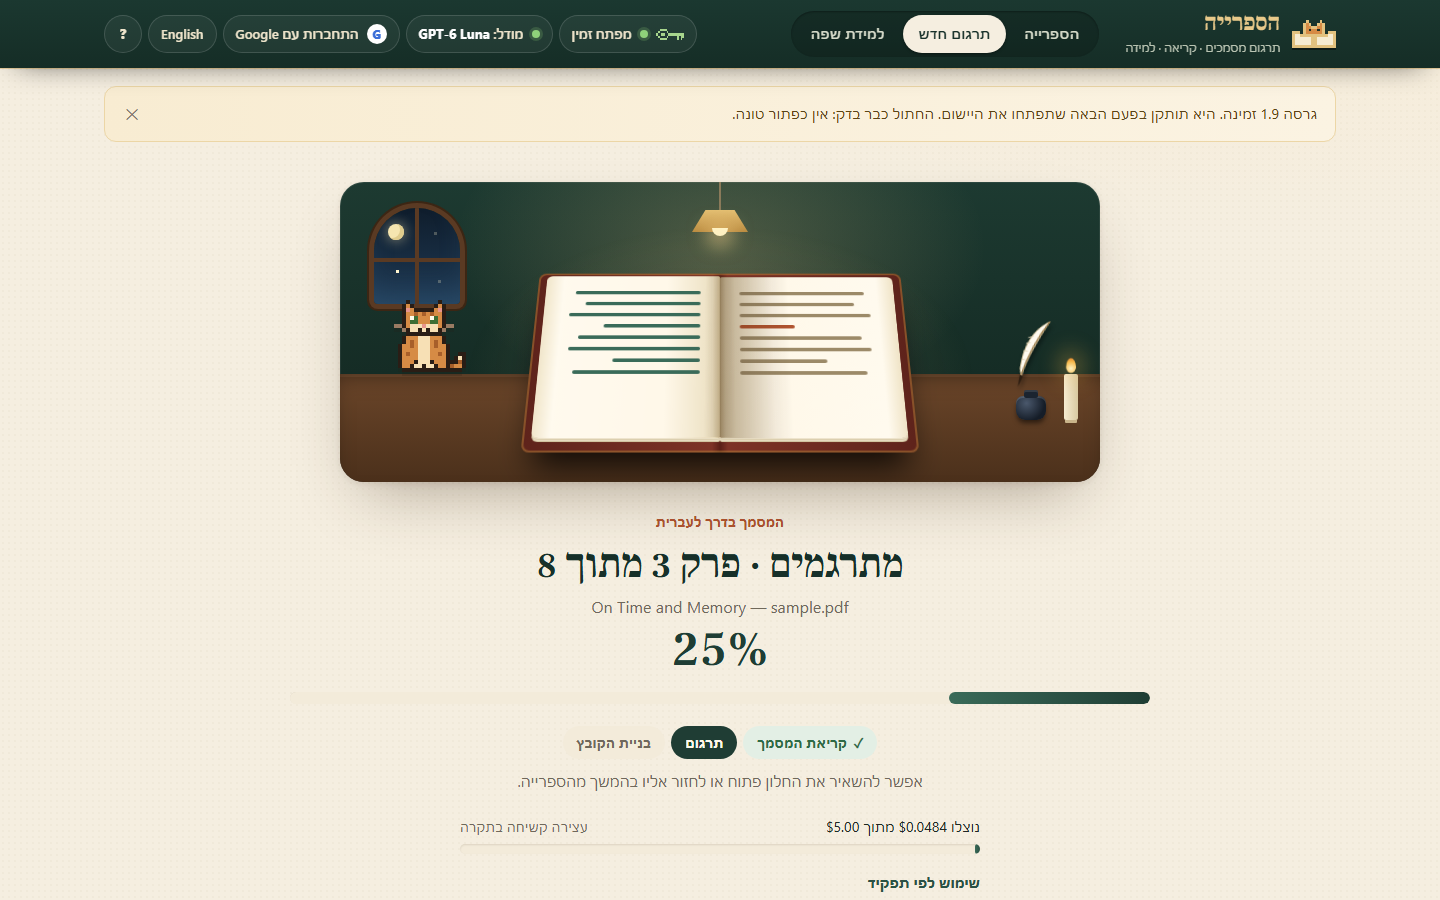
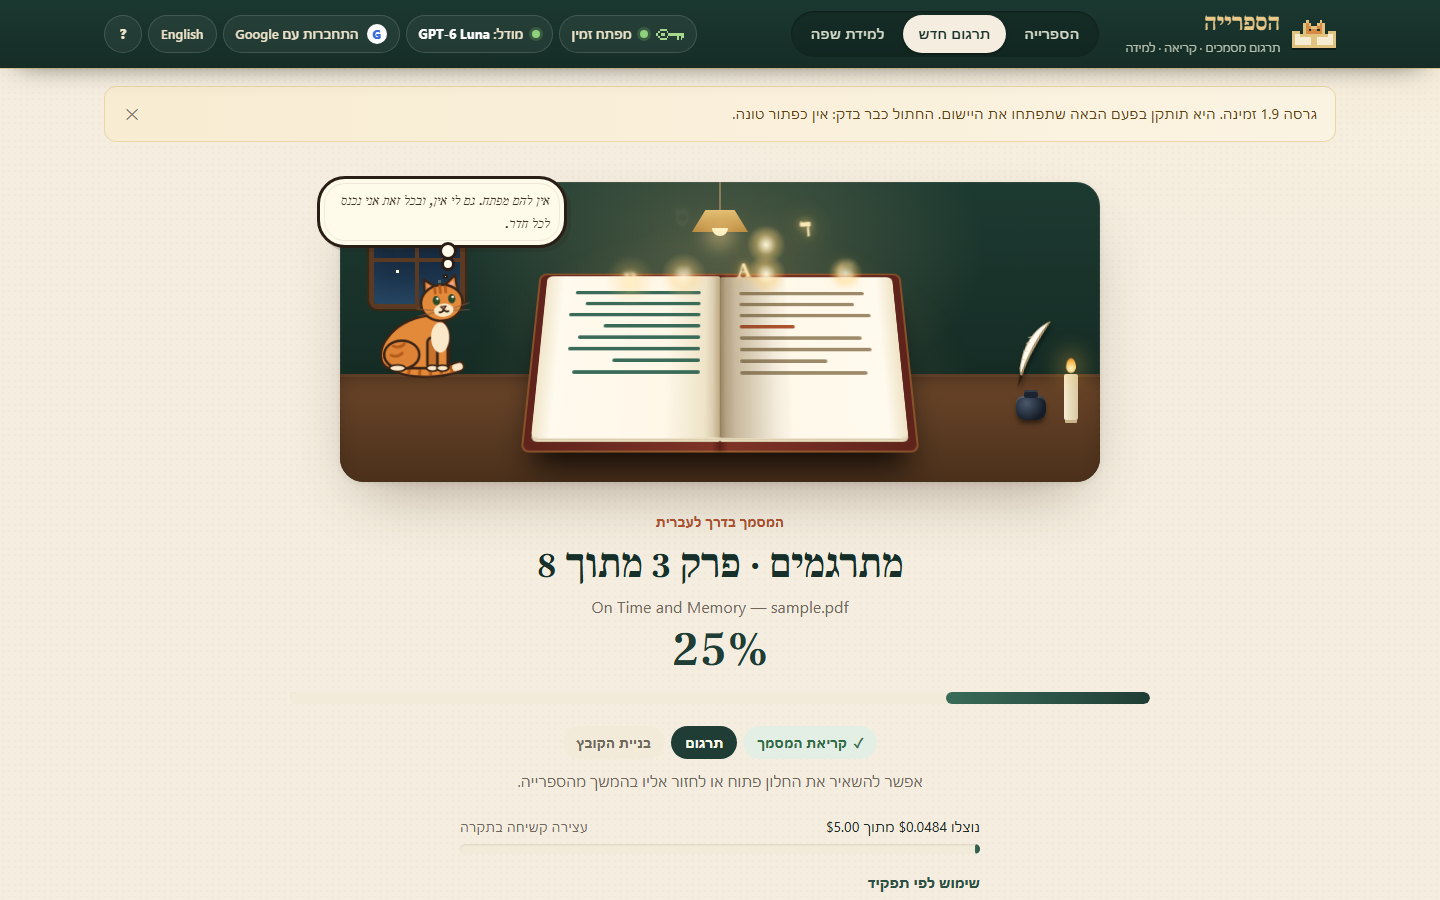
UX-LIBRARY-ROAMING: thought bubble anchored to the cat's head in every pose and edge

Changed region(s): [[0.2188, 0.1867, 0.4062, 0.4356], [0.4062, 0.2489, 0.5938, 0.3422]]

diff --git a/design/pixel-library/library-cat.css b/design/pixel-library/library-cat.css
@@ -17,11 +17,11 @@
 .roam-cat.arriving{opacity:.4}
 
 /* Thought bubble: rounded cloud with trailing thought dots, kept inside the viewport by JS. */
-.roam-thought{position:absolute;bottom:calc(24px*var(--cat-scale) + 10px);left:0;width:max-content;max-width:min(250px,calc(100vw - 24px));padding:10px 14px;background:#fffbea;color:#3a3122;border:3px solid #2a1d15;border-radius:28px;box-shadow:4px 4px 0 #2a1d1526,inset 0 0 0 4px #fffbea,inset 0 0 0 5px #2a1d1514;font:italic 500 .9rem/1.6 var(--serif,Georgia,serif);pointer-events:none;animation:thought-in .22s steps(3,end) both;--tail:50%}
+.roam-thought{position:absolute;top:0;left:0;width:max-content;max-width:min(250px,calc(100vw - 24px));padding:10px 14px;background:#fffbea;color:#3a3122;border:3px solid #2a1d15;border-radius:28px;box-shadow:4px 4px 0 #2a1d1526,inset 0 0 0 4px #fffbea,inset 0 0 0 5px #2a1d1514;font:italic 500 .9rem/1.6 var(--serif,Georgia,serif);pointer-events:none;animation:thought-in .22s steps(3,end) both;--tail:50%;--lean:0px;--mid:50%}
 .roam-thought p{margin:0}
 .roam-thought:before,.roam-thought:after{content:"";position:absolute;background:#fffbea;border:3px solid #2a1d15;border-radius:50%}
-.roam-thought:before{width:12px;height:12px;bottom:-14px;left:calc(var(--tail) - 12px)}
-.roam-thought:after{width:7px;height:7px;bottom:-24px;left:calc(var(--tail) - 4px)}
+.roam-thought:before{width:12px;height:12px;bottom:-15px;left:calc(var(--tail) + var(--lean) * .3 - 6px)}
+.roam-thought:after{width:8px;height:8px;bottom:-26px;left:calc(var(--tail) + var(--lean) * .6 - 4px)}
 @keyframes thought-in{from{opacity:0;transform:translateY(6px) scale(.9)}to{opacity:1;transform:none}}
 
 .roam-fx{position:absolute;left:50%;bottom:calc(18px*var(--cat-scale));width:0;height:0}
@@ -30,12 +30,7 @@
 @keyframes cat-float{0%{opacity:0;transform:translateY(0)}20%{opacity:1}100%{opacity:0;transform:translateY(-46px)}}
 @media(forced-colors:active){.roam-thought{border-color:CanvasText}}
 @media print{.roam-cat{display:none}}
-.roam-thought.side{bottom:calc(10px*var(--cat-scale))}
-.roam-thought.side:before{bottom:8px;left:var(--tail)}
-.roam-thought.side:after{display:none}
-.roam-dot{position:absolute;width:5px;height:5px;bottom:-32px;left:calc(var(--tail) + 3px);background:#fffbea;border:2px solid #2a1d15;border-radius:50%}
-.roam-thought.side .roam-dot{display:none}
-.roam-floor{position:fixed;left:0;right:0;bottom:10px;height:1px;pointer-events:none}
+.roam-thought.side .roam-floor{position:fixed;left:0;right:0;bottom:10px;height:1px;pointer-events:none}
 
 /* Illustrated cat. Warm ginger tabby, cream chest and socks, soft outline. */
 .cat-svg{overflow:visible}
@@ -124,3 +119,11 @@
 @keyframes cat-loaf{0%,100%{transform:translateY(14px) scaleY(1)}50%{transform:translateY(13.4px) scaleY(1.03)}}
 @keyframes cat-lick{from{transform:rotate(-158deg)}to{transform:rotate(-146deg)}}
 .cat-svg[data-pose=groom] .c-chest{display:none}
+.roam-dot{position:absolute;width:5px;height:5px;bottom:-34px;left:calc(var(--tail) + var(--lean) * .9 - 2.5px);background:#fffbea;border:2px solid #2a1d15;border-radius:50%}
+/* Beside the head: the dots run sideways toward it. */
+.roam-thought[data-side=right]:before{left:-15px;bottom:auto;top:calc(var(--mid) - 6px)}
+.roam-thought[data-side=right]:after{left:-26px;bottom:auto;top:calc(var(--mid) - 4px)}
+.roam-thought[data-side=right] .roam-dot{left:-35px;bottom:auto;top:calc(var(--mid) - 2.5px)}
+.roam-thought[data-side=left]:before{left:auto;right:-15px;bottom:auto;top:calc(var(--mid) - 6px)}
+.roam-thought[data-side=left]:after{left:auto;right:-26px;bottom:auto;top:calc(var(--mid) - 4px)}
+.roam-thought[data-side=left] .roam-dot{left:auto;right:-35px;bottom:auto;top:calc(var(--mid) - 2.5px)}

diff --git a/design/pixel-library/library-cat.js b/design/pixel-library/library-cat.js
@@ -238,21 +238,30 @@
     svg.classList.toggle('blink', now < blinkUntil);
     if (!bubble.hidden) placeBubble();
   }
+  // The thought always rises from the cat's head, wherever the pose, direction or screen edge put it.
+  const headNode = svg.querySelector('.c-head ellipse.c-fur');
+  const clamp = (v, lo, hi) => Math.min(Math.max(v, lo), Math.max(lo, hi));
   function placeBubble() {
-    const w = bubble.offsetWidth, h = bubble.offsetHeight, left = cat.x - scrollX, catCenter = left + W() / 2;
-    // No room above (sticky header)? Think sideways, toward the roomier side.
-    const side = cat.y - H() - scrollY - h - 26 < headerBottom();
-    bubble.classList.toggle('side', side);
-    if (side) {
-      const right = innerWidth - (left + W()) > left;
-      const x = right ? Math.min(W() + 14, innerWidth - left - w - 8) : Math.max(-w - 14, 8 - left);
-      bubble.style.left = `${Math.round(x)}px`;
-      bubble.style.setProperty('--tail', right ? '-6px' : `${w + 2}px`);
-      return;
+    const box = root.getBoundingClientRect(), head = headNode.getBoundingClientRect();
+    const w = bubble.offsetWidth, h = bubble.offsetHeight, gap = 34;
+    const cx = head.left + head.width / 2, top = headerBottom() + 6;
+    const above = head.top - gap - h >= top;
+    bubble.dataset.side = above ? '' : (innerWidth - head.right >= head.left ? 'right' : 'left');
+    let left, y;
+    if (above) {
+      left = clamp(cx - w / 2, 8, innerWidth - w - 8);
+      y = head.top - gap - h;
+      const tail = clamp(cx - left, 22, w - 22);
+      bubble.style.setProperty('--tail', `${Math.round(tail)}px`);
+      bubble.style.setProperty('--lean', `${Math.round(cx - left - tail)}px`);
+    } else {
+      // Not enough room under the header: think beside the head, dots pointing at it.
+      left = bubble.dataset.side === 'right' ? Math.min(head.right + gap, innerWidth - w - 8) : Math.max(head.left - gap - w, 8);
+      y = clamp(head.top + head.height / 2 - h / 2, top, innerHeight - h - 8);
+      bubble.style.setProperty('--mid', `${Math.round(clamp(head.top + head.height / 2 - y, 14, h - 14))}px`);
     }
-    const clamped = Math.min(Math.max(catCenter - w / 2, 8), innerWidth - w - 8);
-    bubble.style.left = `${Math.round(clamped - left)}px`;
-    bubble.style.setProperty('--tail', `${Math.round(catCenter - clamped)}px`);
+    bubble.style.left = `${Math.round(left - box.left)}px`;
+    bubble.style.top = `${Math.round(y - box.top)}px`;
   }
 
   function loop(now) {
@@ -635,7 +644,12 @@
         if (type === 'job-paused') { await tk.wait(1500); }
       });
     },
-    // Test hooks (verification script only reads them).
+    // Test hooks for the verification script: place the cat and show a thought without running behaviour.
+    _testThink({ face = 1, pose = 'sit', x = 200, y = 400, text = '…' } = {}) {
+      token?.cancel(); token = new Token(); cat.motion = null; cat.anchor = null;
+      cat.face = face; setPose(pose); cat.x = x + scrollX; cat.y = y + scrollY;
+      bubbleText.textContent = text; bubble.hidden = false;
+    },
     debug: () => ({ x: cat.x, y: cat.y, w: W(), h: H(), pose: cat.pose, anchor: cat.anchor?.key || null, paused, running, mode, thought: bubble.hidden ? '' : bubbleText.textContent, free: placeFree(cat.x, cat.y), segments: segments().length })
   };
 })();

diff --git a/docs/design/pixel-library/LIBRARY_ROAMING_HE.md b/docs/design/pixel-library/LIBRARY_ROAMING_HE.md
@@ -76,3 +76,5 @@
 - **ספרייה גדולה:** שלושה מדפים בכל פעם וכפתור "עוד מדפים" עם ספירה ("מוצגים 76 מתוך 120"), מיון (אחרונים, שם, גודל), ותצוגת רשימה צפופה. בלוח ההדגמה אפשר לבחור ספרייה של 120 ספרים.
 - **ספר שמסתובב:** ריחוף מעל שדרה, או מעבר אליה במקלדת, מושך את הספר החוצה ומסובב אותו על צידו. אז רואים את הכריכה: שם, פורמט, תאריך, מקטעים, Drive והתקדמות.
 - **החתול עוצב מחדש** כאיור וקטורי במקום פיקסלים: חתול ג'ינג'י מפוספס עם חזה ו"גרביים" לבנים. גוף, ראש, ארבע רגליים וזנב זזים בנפרד. ההליכה אמיתית, עם זוגות רגליים אלכסוניים, ויש ישיבה, ליקוק כפה, פיהוק, תנומה, קפיצה ו"מוחזק". המעברים בין התנוחות רכים.
+
+**הבועה יוצאת מהראש:** מיקום בועת המחשבה מחושב בכל פריים לפי המקום האמיתי של ראש החתול. כך זה נכון בכל תנוחה ובשני הכיוונים, גם כשהבועה נדחפת פנימה מקצה המסך (נקודות המחשבה נוטות אל הראש), וגם מתחת לכותרת העליונה, שם הבועה נפתחת לצד הראש. נבדק ב־40 מצבים.
